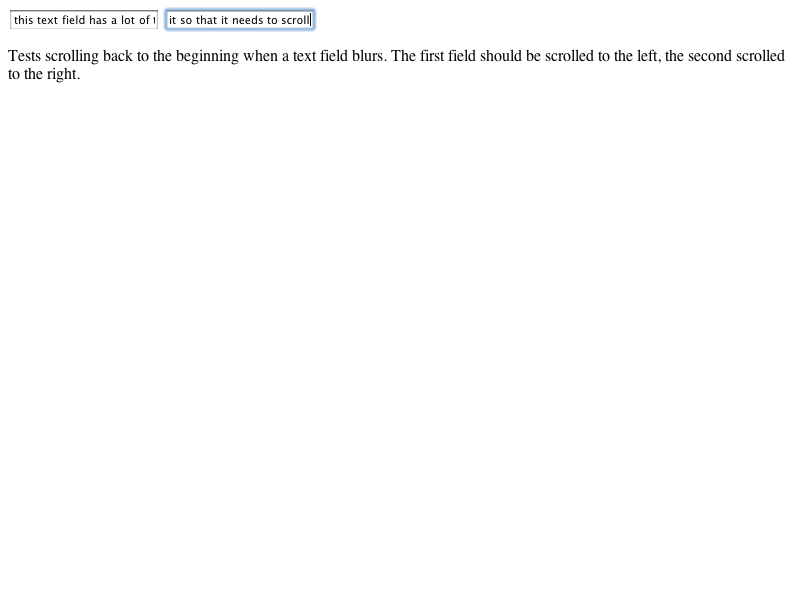
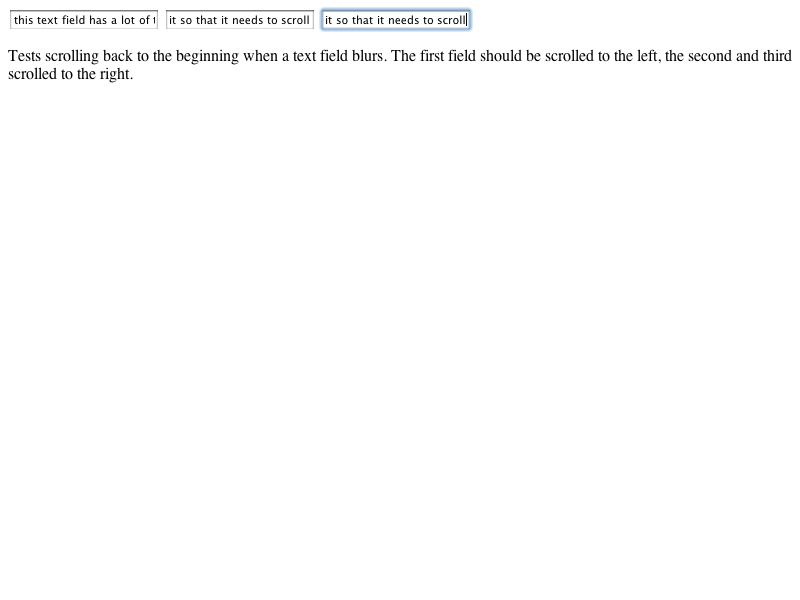
LayoutTests:
- add a test of RTL to the test for bug 8106

        * fast/forms/input-text-scroll-left-on-blur-expected.png: Updated.
        * fast/forms/input-text-scroll-left-on-blur-expected.txt: Updated.
        * fast/forms/input-text-scroll-left-on-blur-expected.checksum: Updated.
        * fast/forms/input-text-scroll-left-on-blur.html: Updated.

WebCore:

        Reviewed by Maciej.

        - get RTL right for bug http://bugzilla.opendarwin.org/show_bug.cgi?id=8106
          REGRESSION (NativeTextField): New text fields don't scroll to the beginning when losing focus

        * rendering/RenderTextField.cpp: (WebCore::RenderTextField::forwardEvent):
        Scroll to the right if RTL.

git-svn-id: http://svn.webkit.org/repository/webkit/trunk/LayoutTests@13666 268f45cc-cd09-0410-ab3c-d52691b4dbfc

Changed region(s): [[0.1875, 0.0, 0.5938, 0.06], [0.0, 0.09, 0.1562, 0.15], [0.9062, 0.06, 1.0, 0.12]]

diff --git a/fast/forms/input-text-scroll-left-on-blur.html b/fast/forms/input-text-scroll-left-on-blur.html
@@ -1,6 +1,7 @@
 <input id="a" type="text" value="this text field has a lot of text in it so that it needs to scrol">
-<input id="b" type="text" value="this text field has a lot of text in it so that it needs to scrol">
-<p>Tests scrolling back to the beginning when a text field blurs. The first field should be scrolled to the left, the second scrolled to the right.</p>
+<input id="b" type="text" style="direction: rtl" value="this text field has a lot of text in it so that it needs to scrol">
+<input id="c" type="text" value="this text field has a lot of text in it so that it needs to scrol">
+<p>Tests scrolling back to the beginning when a text field blurs. The first field should be scrolled to the left, the second and third scrolled to the right.</p>
 <script>
 var a = document.getElementById("a");
 a.focus();
@@ -8,10 +9,15 @@ a.setSelectionRange(66, 66);
 if (window.eventSender) {
     eventSender.keyDown("l");
 }
-a.blur();
 var b = document.getElementById("b");
 b.focus();
 b.setSelectionRange(66, 66);
+if (window.eventSender) {
+    eventSender.keyDown("l");
+}
+var c = document.getElementById("c");
+c.focus();
+c.setSelectionRange(66, 66);
 if (window.eventSender) {
     eventSender.keyDown("l");
 }
